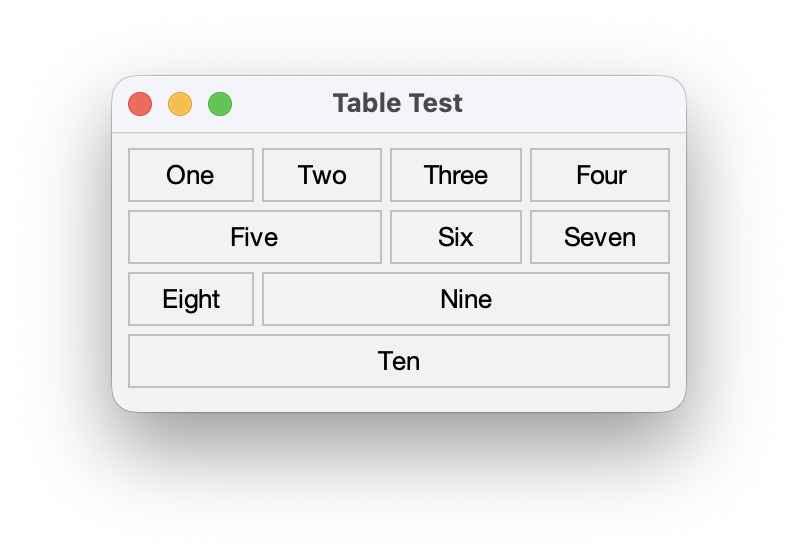
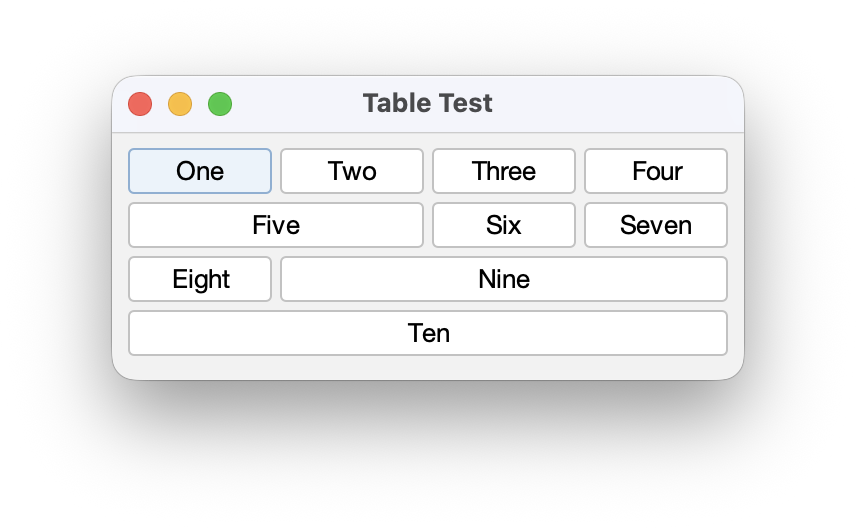
Update documentation.

Changed region(s): [[0.1203, 0.1212, 0.8722, 0.7576]]

diff --git a/sierra/src/main/java/org/httprpc/sierra/TablePanel.java b/sierra/src/main/java/org/httprpc/sierra/TablePanel.java
@@ -24,7 +24,7 @@ import static org.httprpc.kilo.util.Iterables.*;
 import static org.httprpc.kilo.util.Optionals.*;
 
 /**
- * Arranges components in a tabular grid.
+ * Arranges components in a tabular grid. Row contents are aligned to baseline.
  */
 public class TablePanel extends GridPanel {
     private class TableLayoutManager extends AbstractLayoutManager {

diff --git a/sierra/src/main/java/org/httprpc/sierra/FormPanel.java b/sierra/src/main/java/org/httprpc/sierra/FormPanel.java
@@ -22,7 +22,7 @@ import java.util.ArrayList;
 import java.util.List;
 
 /**
- * Arranges components in a labled grid.
+ * Arranges components in a labeled grid. Row contents are aligned to baseline.
  */
 public class FormPanel extends GridPanel {
     private class FormLayoutManager extends AbstractLayoutManager {

diff --git a/README.md b/README.md
@@ -317,23 +317,23 @@ The "columnSpan" attribute specifies the number of columns a cell will occupy in
 
 ```xml
 <table-panel columnCount="4" padding="8" opaque="true">
-    <label text="One" horizontalAlignment="center" border="silver" padding="4, 16, 4, 16"/>
-    <label text="Two" horizontalAlignment="center" border="silver" padding="4, 16, 4, 16"/>
-    <label text="Three" horizontalAlignment="center" border="silver" padding="4, 16, 4, 16"/>
-    <label text="Four" horizontalAlignment="center" border="silver" padding="4, 16, 4, 16"/>
+    <button text="One"/>
+    <button text="Two"/>
+    <button text="Three"/>
+    <button text="Four"/>
 
-    <label text="Five" horizontalAlignment="center" border="silver" padding="4, 16, 4, 16" columnSpan="2"/>
-    <label text="Six" horizontalAlignment="center" border="silver" padding="4, 16, 4, 16"/>
-    <label text="Seven" horizontalAlignment="center" border="silver" padding="4, 16, 4, 16"/>
+    <button text="Five" columnSpan="2"/>
+    <button text="Six"/>
+    <button text="Seven"/>
 
-    <label text="Eight" horizontalAlignment="center" border="silver" padding="4, 16, 4, 16"/>
-    <label text="Nine" horizontalAlignment="center" border="silver" padding="4, 16, 4, 16" columnSpan="3"/>
+    <button text="Eight"/>
+    <button text="Nine" columnSpan="3"/>
 
-    <label text="Ten" horizontalAlignment="center" border="silver" padding="4, 16, 4, 16" columnSpan="4"/>
+    <button text="Ten" columnSpan="4"/>
 </table-panel>
 ```
 
-<img src="README/table.png" width="399px"/>
+<img src="README/table.png" width="428px"/>
 
 ## Button Groups
 The "group" attribute associates a button with a button group. For example, the following markup creates two radio buttons belonging to the "orientation" group:
